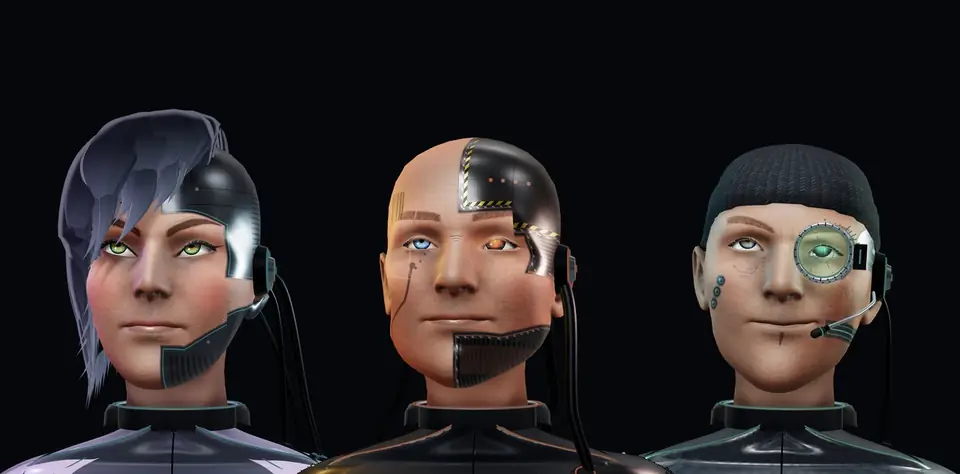
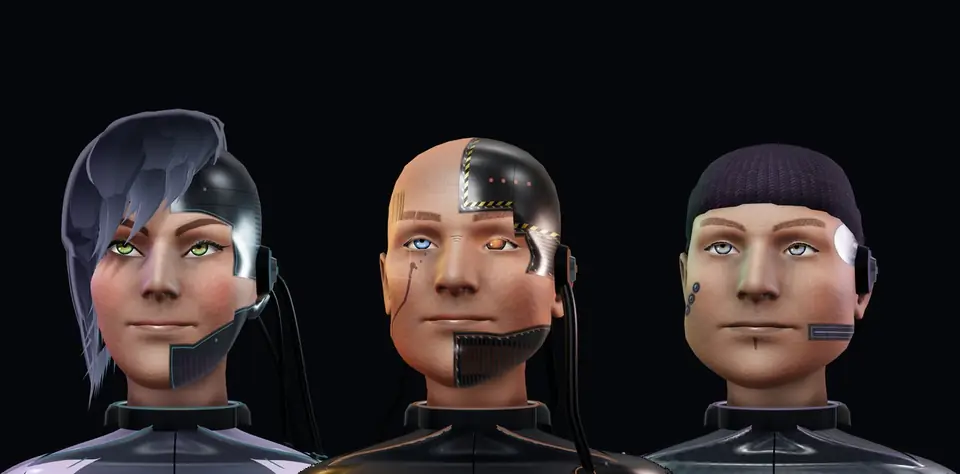
Agenci: Buzz zamiast Marka (spokojny badacz, jedna lub dwie zmiany z ceną i zyskiem): własna głowa 3D z karty graficznej (clip.py buzz), nowa trójka glowy.mp4, karta w sekcji Agenci, teksty i wpis dziennika PL/EN/RU; filmy glowa-buzz.mp4 i glowy.mp4 do wydania media przy publikacji
Kind: feat

diff --git a/src/i18n/ru.ts b/src/i18n/ru.ts
@@ -47,7 +47,7 @@ const ru: Dict = {
     aria: 'Карта экосистемы GitCloud',
     listAria: 'Модули экосистемы',
     nodes: [
-      ['AI-агенты', 'Sally · Tony · Mark · Claude'],
+      ['AI-агенты', 'Sally · Tony · Buzz · Claude'],
       ['Панель', 'решения · журнал дел'],
       ['Пульт ESP32', 'экран · ручка'],
       ['Ночь', 'копии · обзор · отчёт'],
@@ -99,7 +99,7 @@ const ru: Dict = {
     list: [
       ['переписка и сроки', 'Собирает почту, сообщения и сроки. Сроки и дела на решение приходят в панель карточками.'],
       ['дежурный по инфраструктуре', 'Следит за тревогами и журналами системы, чинит по регламентам, в том числе ночью. Утром один отчёт.'],
-      ['модернизация и анализ', 'Проверяет, что устарело, и предлагает изменения с данными. Следит за копиями и связывает рабочие среды.'],
+      ['модернизация и идеи', 'Проверяет, что устарело, и предлагает одно-два изменения с ценой и выгодой. Говорит редко и по делу.'],
     ],
     alt: 'анимированное лицо агента',
     more1: 'Как работает команда агентов',

diff --git a/src/i18n/en.ts b/src/i18n/en.ts
@@ -47,7 +47,7 @@ const en: Dict = {
     aria: 'GitCloud ecosystem map',
     listAria: 'Ecosystem modules',
     nodes: [
-      ['AI agents', 'Sally · Tony · Mark · Claude'],
+      ['AI agents', 'Sally · Tony · Buzz · Claude'],
       ['Panel', 'decisions · case log'],
       ['ESP32 remote', 'screen · knob'],
       ['Night', 'backups · review · report'],
@@ -99,7 +99,7 @@ const en: Dict = {
     list: [
       ['correspondence and deadlines', 'Collects mail, messages and deadlines. Deadlines and matters for decision reach the panel as cards.'],
       ['infrastructure on duty', 'Watches alerts and system logs, fixes things by runbook, also at night. One report in the morning.'],
-      ['modernization and analysis', 'Checks what has aged and proposes changes backed by data. Looks after backups and links the work environments.'],
+      ['modernization and ideas', 'Checks what has aged and proposes one or two changes with cost and benefit. Speaks rarely and to the point.'],
     ],
     alt: 'animated agent face',
     more1: 'How the agent team works',

diff --git a/src/i18n/pl.ts b/src/i18n/pl.ts
@@ -47,7 +47,7 @@ export default {
     aria: 'Mapa ekosystemu GitCloud',
     listAria: 'Moduły ekosystemu',
     nodes: [
-      ['Agenci AI', 'Sally · Tony · Mark · Claude'],
+      ['Agenci AI', 'Sally · Tony · Buzz · Claude'],
       ['Panel', 'decyzje · dziennik spraw'],
       ['Pilot ESP32', 'ekran · pokrętło'],
       ['Noc', 'kopie · przegląd · raport'],
@@ -99,7 +99,7 @@ export default {
     list: [
       ['korespondencja i terminy', 'Zbiera pocztę, wiadomości i terminy. Terminy i sprawy do decyzji trafiają do panelu jako karty.'],
       ['dyżur infrastruktury', 'Pilnuje alarmów i dzienników systemu, naprawia według procedur, także w nocy. Rano jeden raport.'],
-      ['modernizacja i analiza', 'Sprawdza, co się zestarzało, i proponuje zmiany z danymi. Pilnuje kopii i łączy środowiska pracy.'],
+      ['modernizacja i pomysły', 'Sprawdza, co się zestarzało, i proponuje jedną lub dwie zmiany z ceną i zyskiem. Mówi rzadko i rzeczowo.'],
     ],
     alt: 'animowana twarz agenta',
     more1: 'Jak działa zespół agentów',

diff --git a/tools/glowy/clip.py b/tools/glowy/clip.py
@@ -20,7 +20,10 @@ SCRIPT = {   # (секунда, эмоция) — своя у каждого: С
     "sally": [(0, "calm"), (1.2, "amused"), (3.6, "playful"), (5.4, "calm")],
     "vale": [(0, "confident"), (1.6, "interested"), (3.4, "thoughtful"), (5.2, "confident")],
     "mark": [(0, "thoughtful"), (1.8, "skeptical"), (3.6, "curious"), (5.4, "thoughtful")],
+    # 18.11.2026: Buzz, agent domowy zamiast Marka (spokojny badacz); w head.js to «mark» z ?buzz=1
+    "buzz": [(0, "calm"), (1.8, "curious"), (3.6, "thoughtful"), (5.4, "calm")],
 }
+HEAD = {"buzz": "mark&buzz=1"}   # who na stronie → parametry head.js
 VCLOCK = """(() => {
   let vt = 0; const q = [];
   performance.now = () => vt; const D0 = Date.now(); Date.now = () => D0 + vt;
@@ -36,7 +39,7 @@ with sync_playwright() as p:
     pg = b.new_page(device_scale_factor=3, viewport={"width": int(__import__("os").environ.get("SZ","480")), "height": int(__import__("os").environ.get("SZ","480"))})
     pg.set_default_timeout(180000)
     pg.add_init_script(VCLOCK)
-    pg.goto(f"http://127.0.0.1:8788/index.html?who={who}&offline=1&clip=1&withbody=1&cam={CAM}&pr=3&nobrowcards=1&mood={SCRIPT[who][0][1]}", wait_until="load")
+    pg.goto(f"http://127.0.0.1:8788/index.html?who={HEAD.get(who, who)}&offline=1&clip=1&withbody=1&cam={CAM}&pr=3&nobrowcards=1&mood={SCRIPT[who][0][1]}", wait_until="load")
     for _ in range(600):                                  # загрузка модели: шагаем время, пока голова не готова
         pg.evaluate("window.__step(33)")
         if pg.evaluate("!!window.gcReady"):

diff --git a/tools/glowy/wyjscie.py b/tools/glowy/wyjscie.py
@@ -17,7 +17,7 @@ C = Path(sys.argv[1])
 T = Path(sys.argv[2]) if len(sys.argv) > 2 else Path(tempfile.mkdtemp(prefix="glowy-"))
 BG = (5, 7, 11)
 N = 99   # 6,6 s × 15 kl./s
-WHO = [("sally", "sally"), ("vale", "tony"), ("mark", "mark")]
+WHO = [("sally", "sally"), ("vale", "tony"), ("buzz", "buzz")]   # 18.11.2026: Buzz zamiast Marka
 
 
 # 13.11.2026 (właściciel: «wszędzie tylko do ramion, torsu niżej nigdzie»): z kadru clip.py (głowa z ramionami i piersią)

diff --git a/tools/odswiez/PLAN.md b/tools/odswiez/PLAN.md
@@ -5,12 +5,9 @@ Ostatnia noc: 2026-11-18 (dziennik: 3 wpisy; przenagrana głowa Marka; panel bez
 ## Nieaktualne
 - Film panel.mp4 (12.11): zakładka „Modele” ma już podzakładki rdzenia (zużycie, przebiegi, wynik, limity i trasy),
   a twarze agentów są nowe. Przenagrać `rolik_panel.py` (panel uruchomić od nowa przed nagraniem).
-- Panel od 17.11: na serwerze Sally agent domowy to Buzz (z twarzą Marka do czasu własnej głowy), Mark zostaje
-  w innej roli. Kadry panel-agenci, panel-decyzje, agenci.mp4 pokazują jeszcze Marka. Przenagrać i opisać
-  Buzza w sekcji „Agenci”. Od 18.11 Buzz ma własną głowę (head.js: własna twarz, bez monokla i mikrofonu, neon
-  liliowy; serwer głów Sally rysuje go sam, z pliku: `?who=mark&buzz=1`). Do zrobienia najbliższej nocy: nagrać głowy
-  z Buzzem (clip.py z `buzz=1`), w tekstach strony (i18n „Agenci AI”, Home.astro agentMeta, projects*.json alt)
-  Mark → Buzz (rola: spokojny badacz, rzadko mówi, 1–2 pomysły z ceną i zyskiem). Wpisy dziennika o Marku zostają.
+- Panel od 17.11: na serwerze Sally agent domowy to Buzz, Mark zostaje w innej roli. Kadry panel-agenci,
+  panel-decyzje, agenci.mp4 pokazują jeszcze Marka: przenagrać. Głowy (clip.py `buzz`, wyjscie.py), karta w sekcji
+  „Agenci” i teksty Mark → Buzz zrobione w warsztacie 18.11; Sally i Tony zostały ze starych plików.
 - Konsola ISP (public/img/demo): zrzuty z 05.11 w niebieskim motywie „Kolor”. Przenagrać, gdy platforma ISP dostanie
   ciemny motyw zbliżony do panelu; inaczej zostają.
 - Pulpit (pulpit-gitcloud): film pulpit.mp4 nagrany ręcznie, przepisu w repo nie ma. Przenagrać dopiero z przepisem
